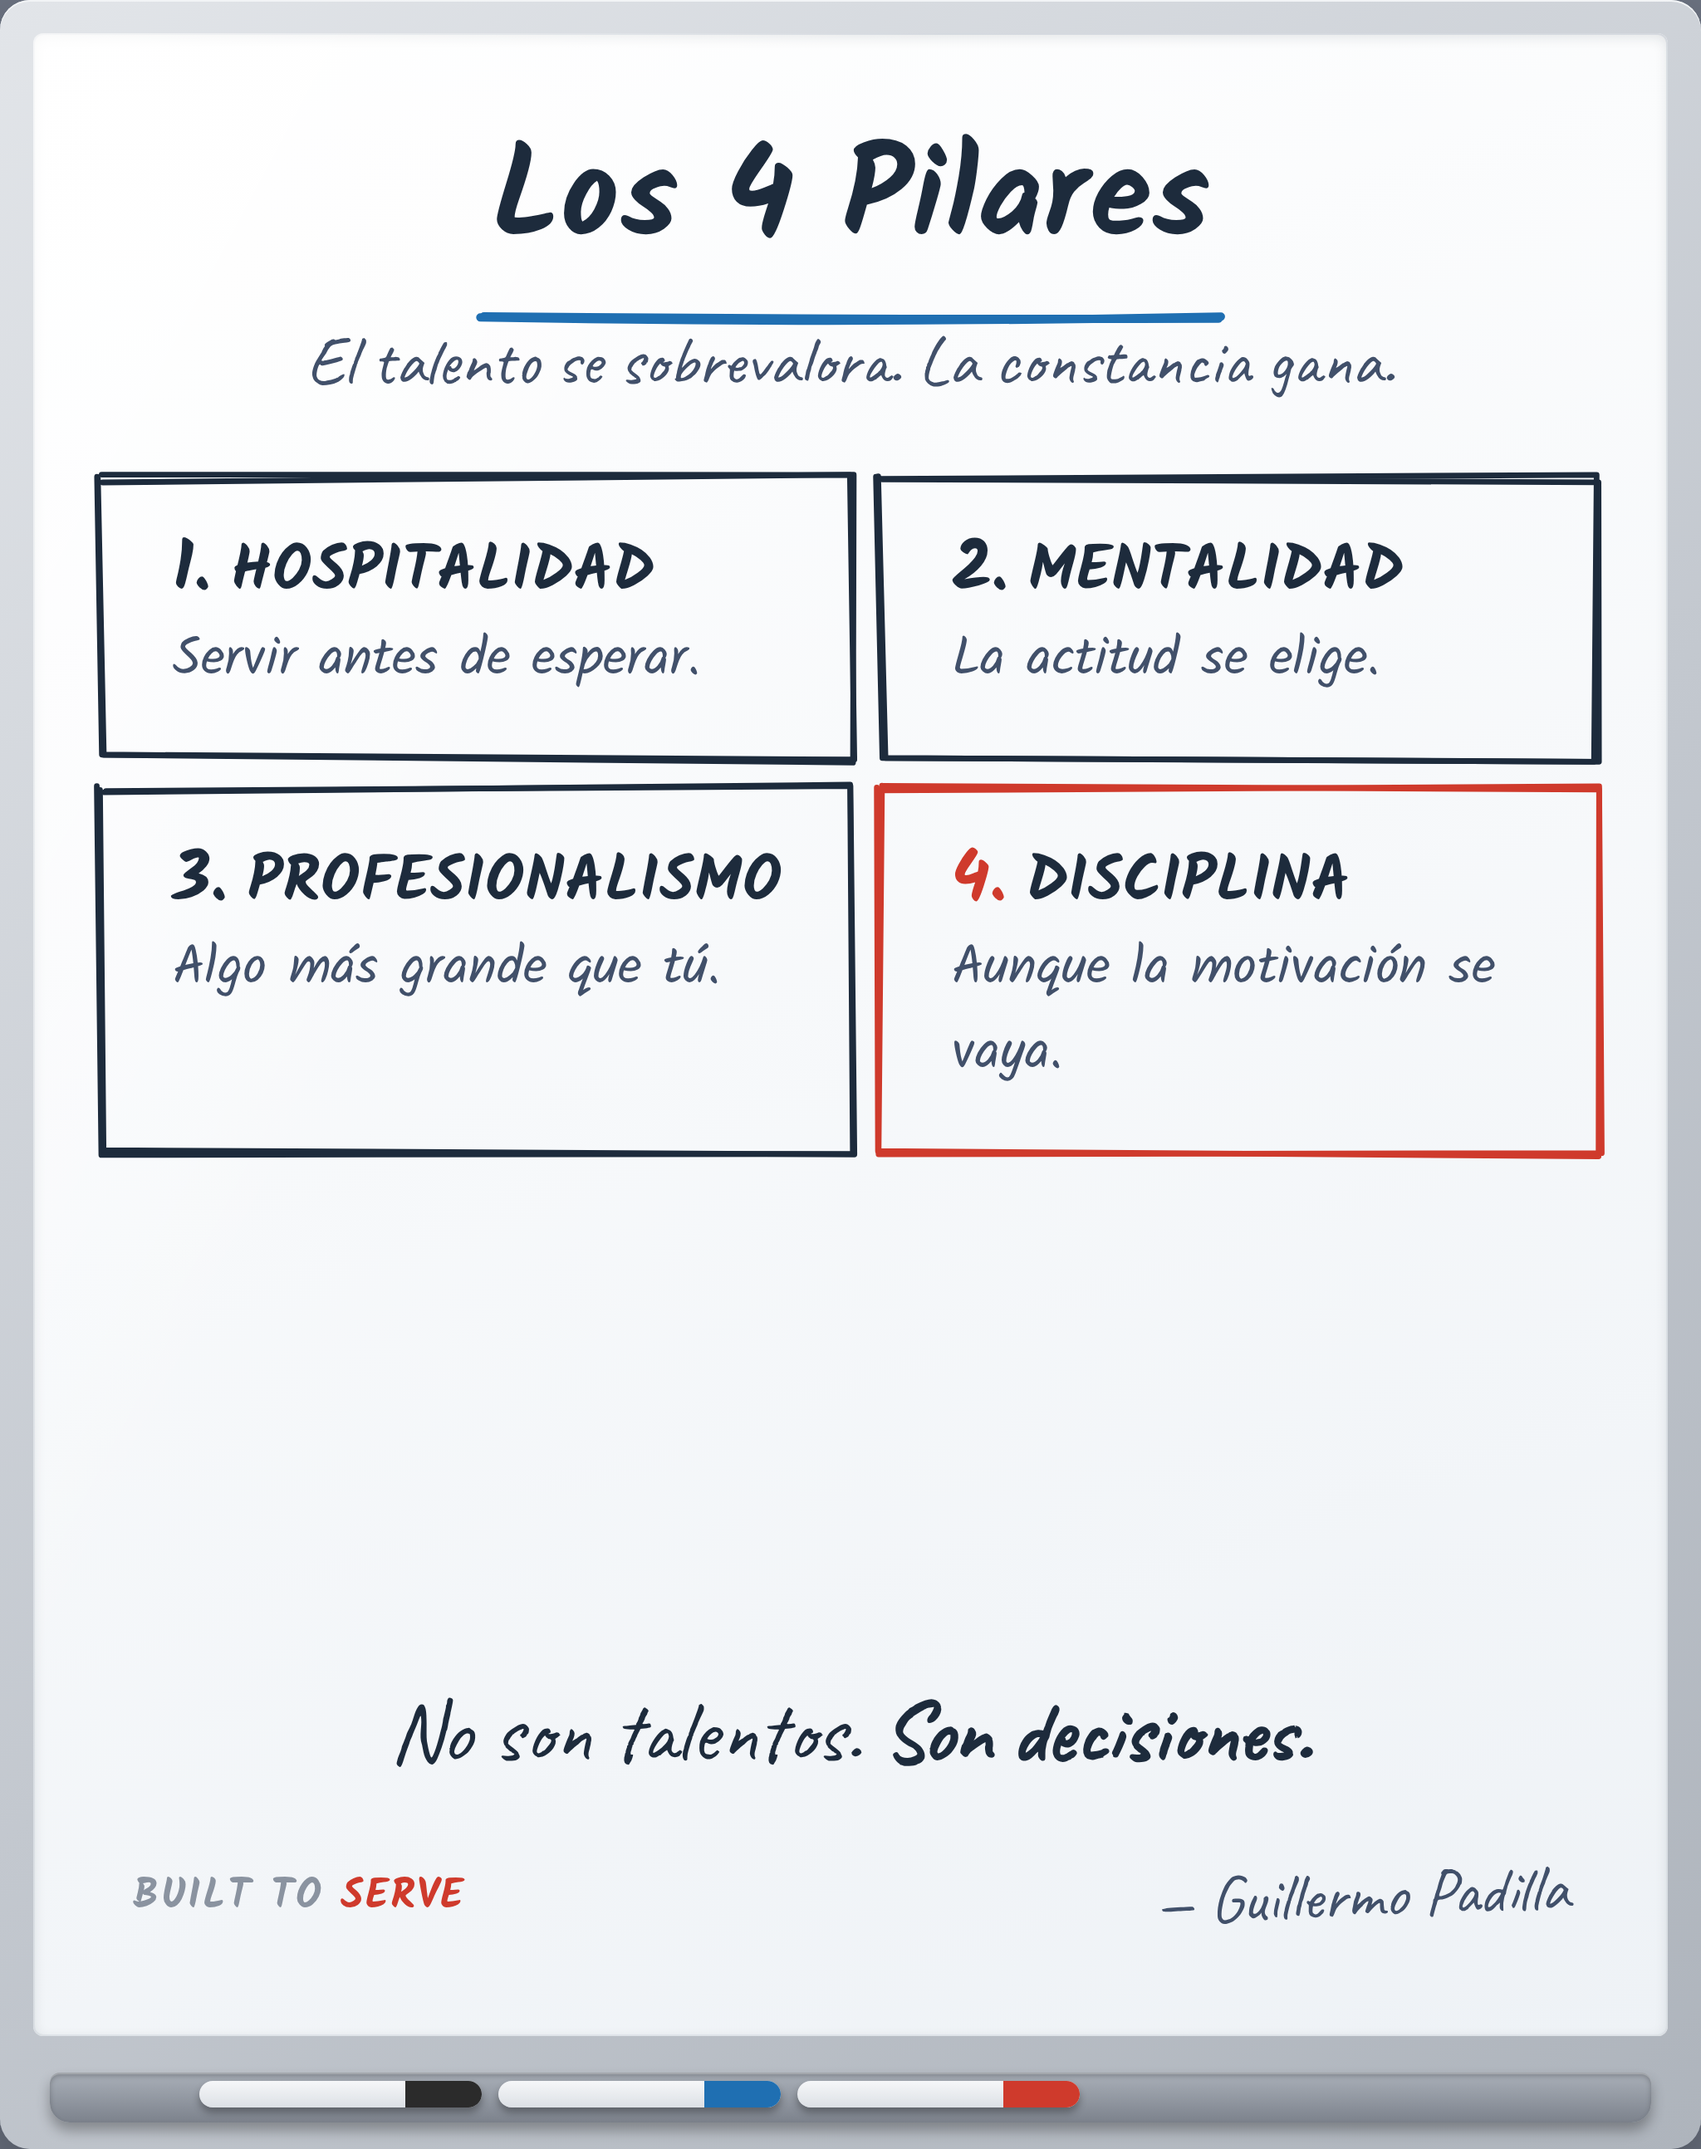
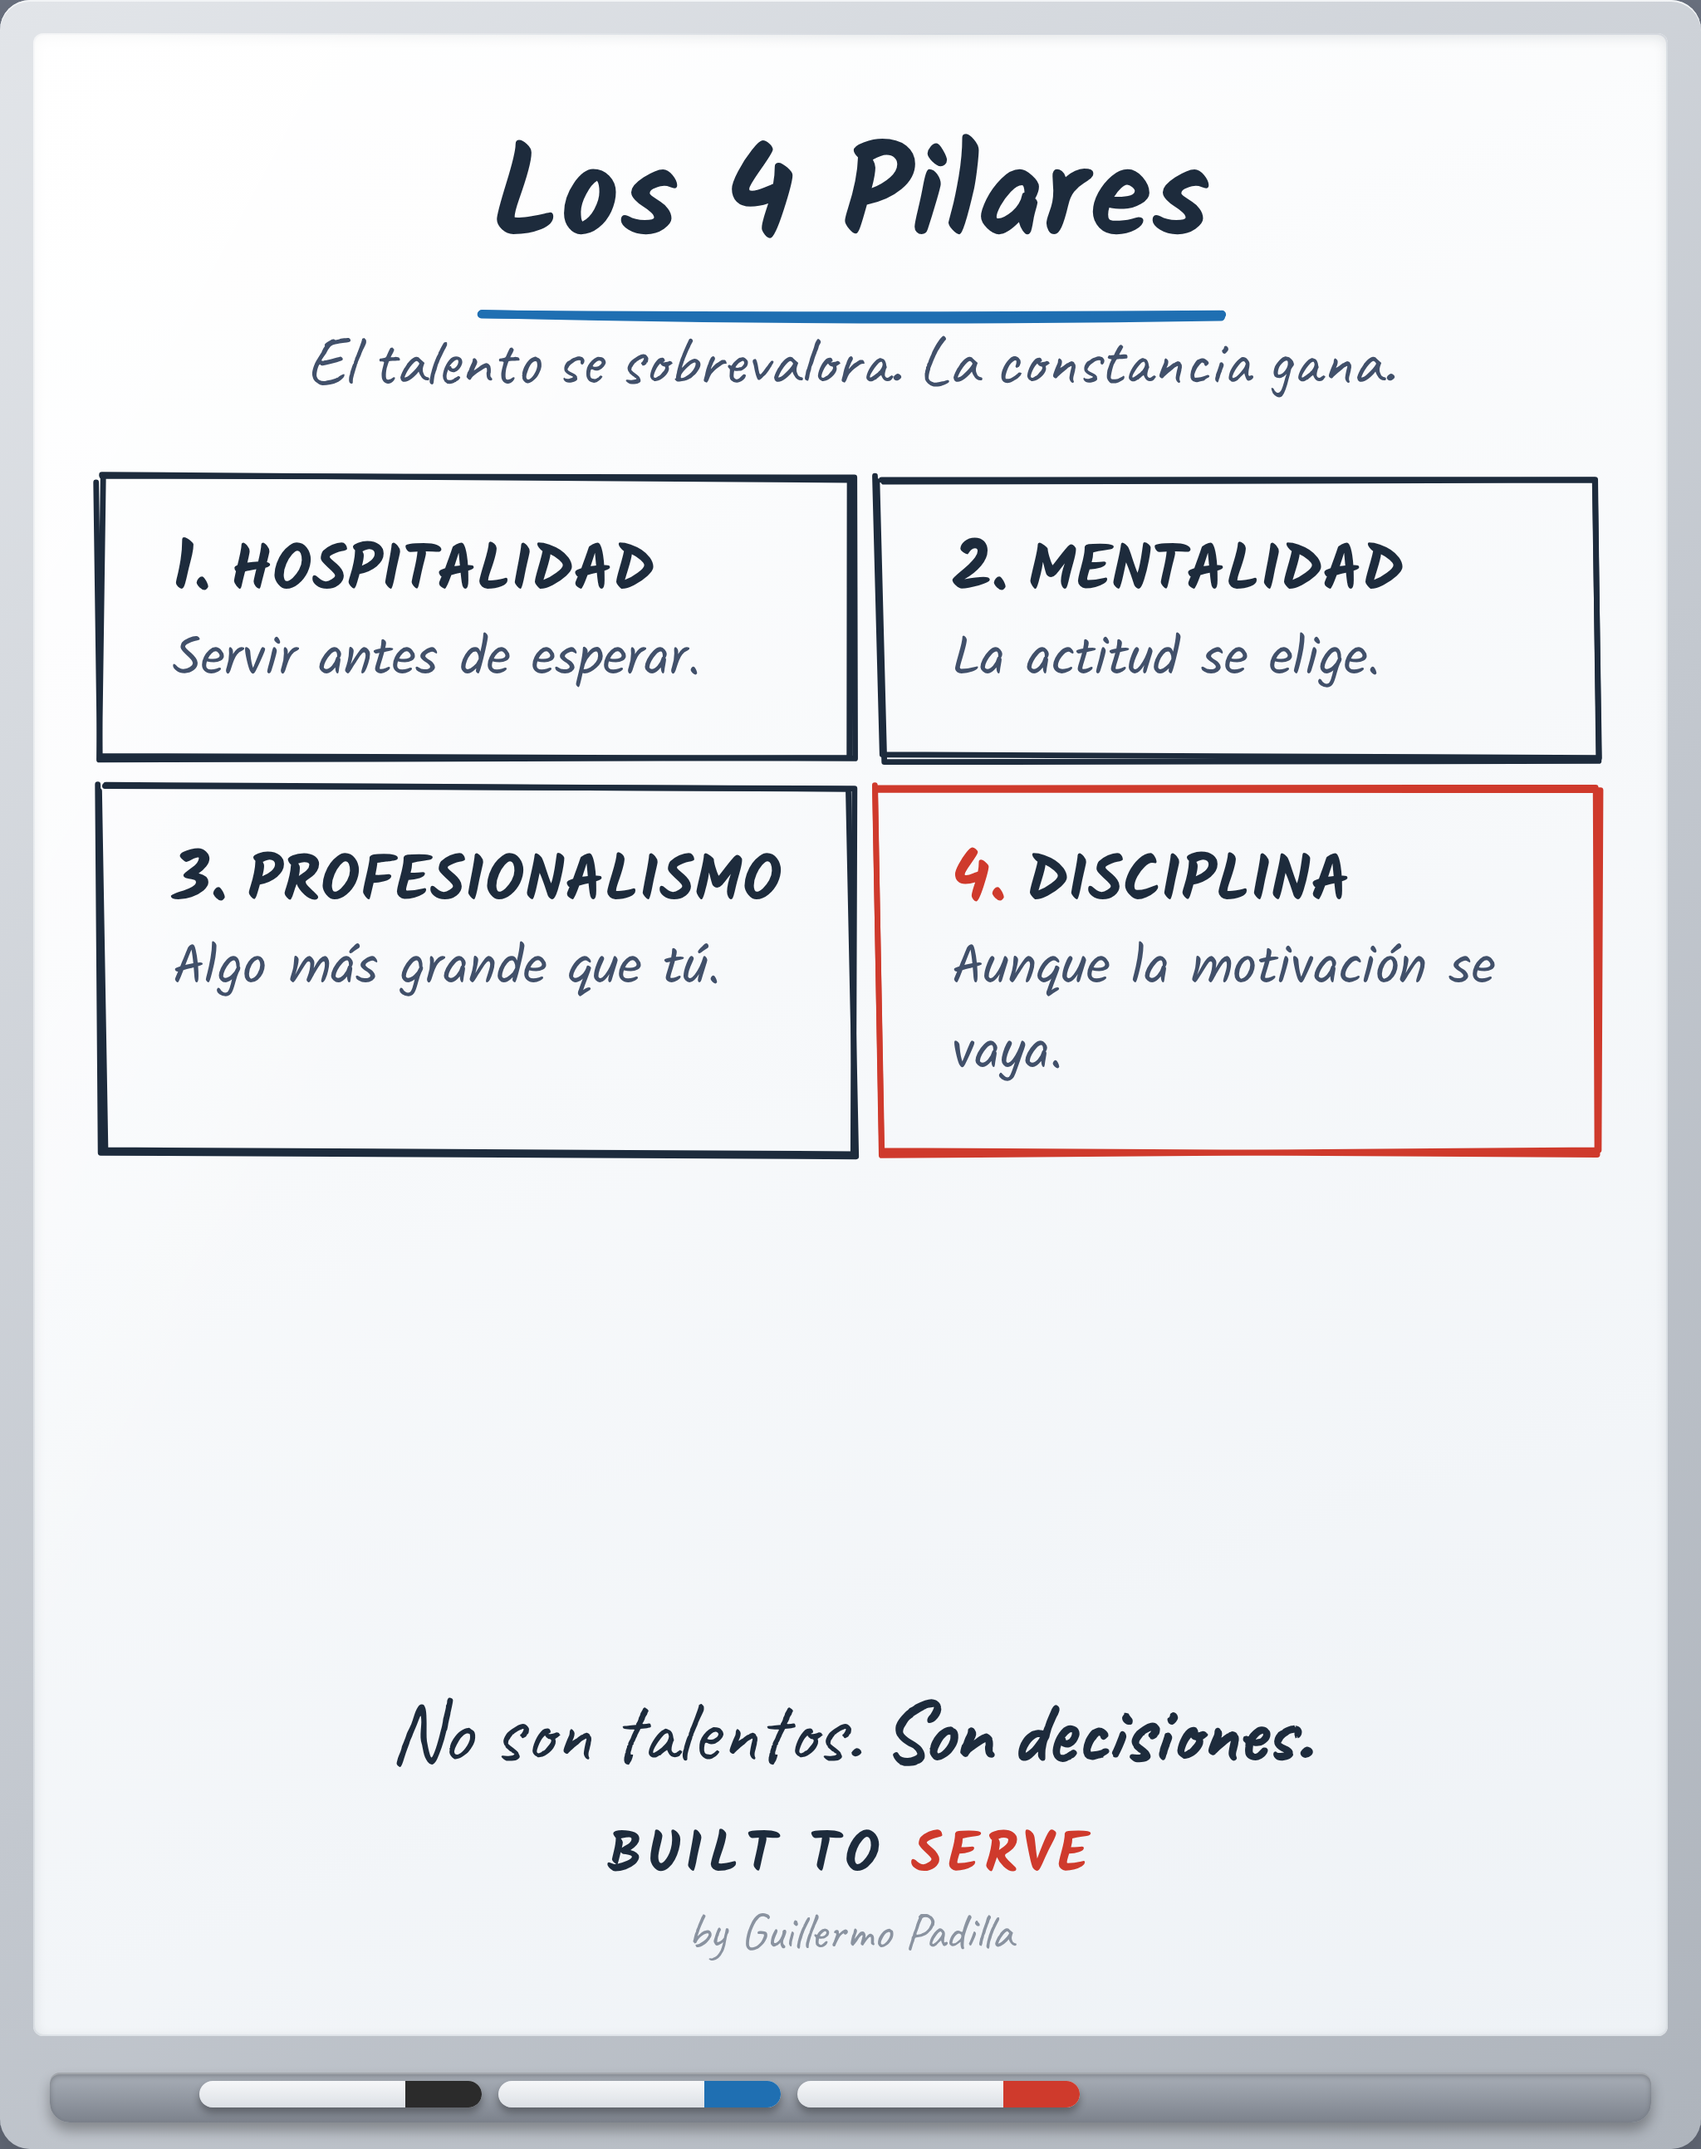
graphics: serie de diagramas mentales + firma Built to Serve (fundador en pequeño)
- Nueva serie 'Las Cadenas': 4 diagramas causa->efecto (nodo->nodo->resultado)
  en estilo pizarrón, resultado en rojo.
- Firma rediseñada: 'Built to Serve' como protagonista, 'by Guillermo Padilla'
  en pequeño, en todos los gráficos (posts + serie).
- render.mjs ahora rasteriza cualquier *.html; gen.py emite posts y serie.
- Doc de la serie en library/serie-las-cadenas.md.

Claude-Session: https://claude.ai/code/session_01JJ9xPjka53SvgJ9SDN74dX

diff --git a/built-to-serve/tools/graphics/gen.py b/built-to-serve/tools/graphics/gen.py
@@ -79,11 +79,11 @@ body{background:#6b7280;display:flex;align-items:center;justify-content:center;
 .t{font-family:'Hand';font-weight:700;color:var(--ink);line-height:1.04}
 .hand{font-family:'Hand'}
 .cav{font-family:'Caveat'}
-.wm{position:absolute;left:60px;bottom:64px;z-index:2;font-family:'Hand';font-weight:700;
-  font-size:25px;letter-spacing:1px;color:#8a93a0}
-.wm b{color:var(--red)}
-.sig{position:absolute;right:60px;bottom:60px;z-index:2;font-family:'Caveat';
-  font-size:40px;color:#41506a;transform:rotate(-2deg)}
+/* Lockup de marca: la filosofía es protagonista; el fundador, en pequeño */
+.brand{position:absolute;left:0;right:0;bottom:44px;z-index:2;text-align:center}
+.brand .bw{font-family:'Hand';font-weight:700;font-size:34px;letter-spacing:3px;color:var(--ink)}
+.brand .bw b{color:var(--red);font-weight:700}
+.brand .by{font-family:'Caveat';font-size:31px;color:#8a93a0;margin-top:-2px}
 </style></head><body><div class="board"><div class="surface">
 <svg id="ink"></svg>
 <div class="content">
@@ -91,8 +91,10 @@ body{background:#6b7280;display:flex;align-items:center;justify-content:center;
 
 FOOT = """
 </div>
-<div class="wm">BUILT TO <b>SERVE</b></div>
-<div class="sig">— Guillermo Padilla</div>
+<div class="brand">
+  <div class="bw">BUILT TO <b>SERVE</b></div>
+  <div class="by">by Guillermo Padilla</div>
+</div>
 </div>
 <div class="tray"></div>
 <div class="mk k"></div><div class="mk b"></div><div class="mk r"></div>
@@ -185,6 +187,41 @@ post3 = """
 </div>
 """
 
-for name, body in [("post1.html", post1), ("post2.html", post2), ("post3.html", post3)]:
+# ---------- SERIE : Diagramas mentales (cadenas causa → efecto) ----------
+def diagrama(kicker, n1, n2, n3, cierre):
+    """Tres nodos a mano conectados por flechas. El resultado (n3) en rojo."""
+    return f"""
+<div class="cav" style="text-align:center;font-size:34px;color:#8a93a0;letter-spacing:1px">{kicker}</div>
+
+<div style="flex:1;display:flex;flex-direction:column;justify-content:center;align-items:center;gap:0">
+  <div class="ink-box t" style="font-size:52px;padding:18px 70px">{n1}</div>
+  <div class="ink-arrow" style="width:130px;height:78px"></div>
+  <div class="ink-box t" style="font-size:52px;padding:18px 70px">{n2}</div>
+  <div class="ink-arrow" data-c="red" style="width:130px;height:78px"></div>
+  <div class="ink-box t" data-c="red" style="font-size:52px;padding:18px 70px">{n3}</div>
+</div>
+
+<div style="text-align:center;padding-bottom:108px">
+  <div class="cav" style="font-size:50px;color:var(--ink)">{cierre}</div>
+</div>
+"""
+
+SERIE = [
+    ("diag1.html", diagrama("La cadena #1",
+        "PERSONAS", "CULTURA", "RESULTADOS",
+        "Todo empieza por la gente.")),
+    ("diag2.html", diagrama("La cadena #2",
+        "SERVIR", "CONFIANZA", "LIDERAZGO",
+        "Sirve primero. El liderazgo se gana.")),
+    ("diag3.html", diagrama("La cadena #3",
+        "DISCIPLINA", "CONSTANCIA", "EXCELENCIA",
+        "La excelencia es un hábito, no un golpe de suerte.")),
+    ("diag4.html", diagrama("La cadena #4",
+        "HOSPITALIDAD", "EXPERIENCIA", "LEALTAD",
+        "La lealtad se gana en cada detalle.")),
+]
+
+salidas = [("post1.html", post1), ("post2.html", post2), ("post3.html", post3)] + SERIE
+for name, body in salidas:
     open(os.path.join(BASE, name), "w").write(HEAD + body + FOOT)
     print("wrote", name)

diff --git a/built-to-serve/library/serie-las-cadenas.md b/built-to-serve/library/serie-las-cadenas.md
@@ -1,0 +1,51 @@
+# Serie — Las Cadenas
+
+> Diagramas mentales, no listas. Cada cadena es una relación causa → efecto
+> que se entiende en tres segundos. El último nodo (el resultado) va en rojo.
+
+Una serie visual recurrente para LinkedIn. Mismo formato pizarrón, misma
+lógica de tres nodos, misma firma. Reconocible a primera vista.
+
+> Firma: **Built to Serve** (protagonista) · *by Guillermo Padilla* (fundador).
+> La filosofía es la marca; el fundador la sostiene.
+
+---
+
+## Cadena #1 — Personas → Cultura → Resultados
+**Pilar:** Hospitalidad · **Parte:** I Fundamentos (Cultura)
+**Cierre:** *Todo empieza por la gente.*
+
+![Cadena 1](assets/serie-01-personas-cultura-resultados.png)
+
+## Cadena #2 — Servir → Confianza → Liderazgo
+**Pilar:** Hospitalidad · **Parte:** III Liderazgo
+**Cierre:** *Sirve primero. El liderazgo se gana.*
+
+![Cadena 2](assets/serie-02-servir-confianza-liderazgo.png)
+
+## Cadena #3 — Disciplina → Constancia → Excelencia
+**Pilar:** Disciplina · **Parte:** V Crecimiento Personal
+**Cierre:** *La excelencia es un hábito, no un golpe de suerte.*
+
+![Cadena 3](assets/serie-03-disciplina-constancia-excelencia.png)
+
+## Cadena #4 — Hospitalidad → Experiencia → Lealtad
+**Pilar:** Hospitalidad · **Parte:** IV Operaciones (Experiencia del cliente)
+**Cierre:** *La lealtad se gana en cada detalle.*
+
+![Cadena 4](assets/serie-04-hospitalidad-experiencia-lealtad.png)
+
+---
+
+## Cómo crece la serie
+
+Cada nueva cadena es un nodo → nodo → resultado que refuerza un principio de
+Built to Serve. Para agregar una, edita la lista `SERIE` en
+[`../tools/graphics/gen.py`](../tools/graphics/gen.py) y regenera.
+
+Ideas para las próximas (deben pasar las siete puertas del Archivist):
+
+- Detalle → Estándar → Reputación
+- Empatía → Conexión → Servicio
+- Hábito → Identidad → Carácter
+- Preparación → Calma → Ejecución
